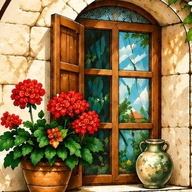
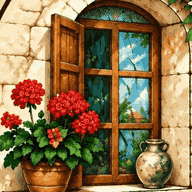
feat(site): sticky order bar, link previews and other UI quick wins
- sticky WhatsApp order bar on phones (not for sold-out products)
- Open Graph/meta link previews with images/og.jpg
- price unit never breaks onto its own line
- back link keeps category, search and scroll position
- tap targets at least 44px
- lighter icon.png and logo.jpg (original kept in
  tools/packaging/logo-original.jpg for packaging)

diff --git a/style.css b/style.css
@@ -81,6 +81,7 @@ img { display: block; max-width: 100%; }
 .chip {
   font: inherit; font-weight: 800; font-size: 1.05rem; cursor: pointer;
   display: inline-flex; align-items: center; gap: 7px;
+  min-height: 44px; /* comfortable tap target on phones */
   padding: 8px 22px; border-radius: 999px;
   color: var(--brown); background: linear-gradient(to bottom, #fdf7ea, var(--surface));
   border: 1.5px solid var(--line);
@@ -155,6 +156,11 @@ img { display: block; max-width: 100%; }
   background: var(--green); border-color: var(--green); color: #fff; outline: none;
 }
 .search-clear[hidden] { display: none; }
+/* invisible 44px tap area around the small × circle */
+.search-clear::before {
+  content: ""; position: absolute; top: -8px; right: -8px; bottom: -8px; left: -8px;
+  border-radius: 50%;
+}
 .search + .filters { margin-top: 0; padding-top: 14px; }
 
 /* "nothing found" card inside the product grid */
@@ -207,6 +213,8 @@ img { display: block; max-width: 100%; }
   padding-top: 12px; border-top: 1px dashed var(--line);
 }
 .price { font-weight: 800; color: var(--brown); white-space: nowrap; }
+/* « / ۴۰۰ گرم» never splits; if the price must wrap, the whole unit goes to the next line */
+.unit { white-space: nowrap; }
 .card .price {
   padding: 2px 14px; border-radius: 999px;
   background: var(--bg); border: 1px solid var(--line);
@@ -272,8 +280,16 @@ img { display: block; max-width: 100%; }
 .badge.inline { position: static; vertical-align: middle; margin-right: 8px; }
 
 /* Detail page */
-.back { display: table; margin: 24px auto; color: var(--green); font-weight: 600; text-decoration: none; }
-.back:hover { color: var(--green-dark); }
+/* back link: cream pill like the category buttons, 44px+ tall */
+.back {
+  display: table; margin: 24px auto; padding: 8px 24px;
+  color: var(--green-dark); font-weight: 800; text-decoration: none; line-height: 1.6;
+  background: linear-gradient(to bottom, #fdf7ea, var(--surface));
+  border: 1.5px solid var(--line); border-radius: 999px;
+  box-shadow: inset 0 1px 0 #fff, 0 1px 2px rgba(74, 44, 26, .1), 0 5px 12px rgba(74, 44, 26, .09);
+  transition: border-color .2s ease, transform .2s ease;
+}
+.back:hover { border-color: var(--green); transform: translateY(-2px); }
 .detail { display: grid; grid-template-columns: 1fr 1fr; gap: 40px; align-items: start; }
 .main-img {
   position: relative; aspect-ratio: 1; background: var(--bg-deep);
@@ -331,6 +347,10 @@ img { display: block; max-width: 100%; }
 .btn-ghost { background: transparent; color: var(--green); }
 .btn-ghost:hover { background: var(--green); color: #fff; }
 .ico { width: 1.15em; height: 1.15em; flex: none; }
+.contact .btn { min-height: 44px; }
+
+/* Sticky order bar: product pages, phones only (see the 720px block) */
+.order-bar { display: none; }
 
 /* Footer */
 .site-footer {
@@ -384,7 +404,9 @@ img { display: block; max-width: 100%; }
   .grid > .card { width: calc(50% - 7px); }
   .card-body { padding: 12px; }
   .more { display: none; }
-  .card .price { font-size: .82rem; padding: 2px 8px; white-space: normal; }
+  .card .price { font-size: .82rem; padding: 3px 10px; white-space: normal; line-height: 1.6; border-radius: 16px; }
+  /* phones: price on the first line, unit always on its own second line (same on every card) */
+  .card .price .unit { display: block; font-size: .92em; font-weight: 700; }
   .filters { gap: 6px; }
   .chip { padding: 6px 12px; font-size: .92rem; gap: 5px; }
   .chip::before { width: 7px; height: 7px; }
@@ -393,6 +415,29 @@ img { display: block; max-width: 100%; }
   .search input { height: 44px; }
   .info { padding: 22px 16px; }
   .steps li { width: 100%; max-width: 340px; flex-direction: row; justify-content: center; padding: 14px 16px; }
+
+  .order-bar {
+    display: block; position: fixed; left: 0; right: 0; bottom: 0; z-index: 50;
+    padding: 10px 16px;
+    /* iPhone home bar: plain value first, then old (iOS 11.0) and current syntax */
+    padding-bottom: 10px;
+    padding-bottom: calc(10px + constant(safe-area-inset-bottom));
+    padding-bottom: calc(10px + env(safe-area-inset-bottom));
+    background: #f8ecd5; background: rgba(248, 236, 213, .97);
+    border-top: 1.5px solid var(--line);
+    box-shadow: 0 -6px 18px rgba(74, 44, 26, .14);
+  }
+  .order-bar .btn {
+    display: flex; justify-content: center;
+    width: 100%; max-width: 480px; min-height: 50px; margin: 0 auto; padding: 10px 20px;
+    font-size: 1.05rem;
+  }
+  /* keep the footer clear of the fixed bar (bar is about 72px tall) */
+  body.has-order-bar .site-footer {
+    padding-bottom: 108px;
+    padding-bottom: calc(108px + constant(safe-area-inset-bottom));
+    padding-bottom: calc(108px + env(safe-area-inset-bottom));
+  }
 }
 
 /* ---------- Old Safari fallbacks (modern browsers skip these blocks) ---------- */

diff --git a/app.js b/app.js
@@ -92,8 +92,9 @@ function esc(s) {
 }
 
 function price(p) {
-  const unit = p.unit ? ` / ${esc(p.unit)}` : "";
-  return `${Number(p.price).toLocaleString("fa-IR")} ${esc(SHOP.currency)}${unit}`;
+  // non-breaking spaces (\u00a0) + span.unit keep «۴۰۰ گرم» and «… تومان» from wrapping apart
+  const unit = p.unit ? ` <span class="unit">/\u00a0${esc(String(p.unit).replace(/ /g, "\u00a0"))}</span>` : "";
+  return `${Number(p.price).toLocaleString("fa-IR")}\u00a0${esc(SHOP.currency)}${unit}`;
 }
 
 // small inline icons for the contact buttons (currentColor, so they follow the button)
@@ -104,8 +105,13 @@ const ICONS = {
   telegram: '<svg class="ico" viewBox="0 0 24 24" aria-hidden="true"><path fill="currentColor" d="M21.9 4.6 18.7 19.4c-.2 1-.9 1.3-1.7.8l-4.8-3.5-2.3 2.2c-.3.3-.5.5-1 .5l.3-4.9 8.9-8c.4-.3-.1-.5-.6-.2l-11 6.9-4.7-1.5c-1-.3-1-1 .2-1.5L20.6 3.4c.8-.3 1.6.2 1.3 1.2Z"/></svg>',
 };
 
+// WhatsApp order message (order box, footer and the sticky order bar)
+function orderMsg(subject) {
+  return encodeURIComponent(`سلام، میخوام «${subject}» رو سفارش بدم.`);
+}
+
 function contactLinks(subject) {
-  const msg = encodeURIComponent(`سلام، میخوام «${subject}» رو سفارش بدم.`);
+  const msg = orderMsg(subject);
   const links = [];
   if (SHOP.whatsapp) {
     links.push(`<a class="btn" href="https://wa.me/${esc(SHOP.whatsapp)}?text=${msg}" target="_blank" rel="noopener">${ICONS.whatsapp}سفارش در واتساپ</a>`);
@@ -369,6 +375,32 @@ function renderProduct() {
         ${p.soldOut || !contactLinks(p.name) ? "" : `<div class="buy"><p>برای سفارش بهمون پیام بده:</p><div class="contact">${contactLinks(p.name)}</div></div>`}
       </div>
     </div>`;
+
+  // back link: open the home page on this product's category; if the customer came from the
+  // home page, go back in history instead (restores scroll, category and search)
+  const back = document.getElementById("back");
+  if (back) {
+    if (cat) back.href = `index.html?cat=${encodeURIComponent(cat.id)}`;
+    back.addEventListener("click", (e) => {
+      try {
+        const ref = document.referrer ? new URL(document.referrer) : null;
+        if (ref && ref.origin === location.origin && /(\/|index\.html)$/.test(ref.pathname) && history.length > 1) {
+          e.preventDefault();
+          history.back();
+        }
+      } catch (err) { /* keep the normal link */ }
+    });
+  }
+
+  // sticky order bar (shown only on phones by style.css)
+  if (!p.soldOut && SHOP.whatsapp) {
+    const msg = orderMsg(p.name);
+    const bar = document.createElement("div");
+    bar.className = "order-bar";
+    bar.innerHTML = `<a class="btn" href="https://wa.me/${esc(SHOP.whatsapp)}?text=${msg}" target="_blank" rel="noopener">${ICONS.whatsapp}سفارش در واتساپ</a>`;
+    document.body.appendChild(bar);
+    document.body.classList.add("has-order-bar");
+  }
 
   box.querySelectorAll(".thumb").forEach((t) => t.addEventListener("click", () => {
     document.getElementById("main-img").src = t.dataset.src;

diff --git a/product.html b/product.html
@@ -4,6 +4,22 @@
   <meta charset="utf-8">
   <meta name="viewport" content="width=device-width, initial-scale=1">
   <title>برگین</title>
+  <meta name="description" content="قیمت و جزئیات این محصول خانگی شمالی برگین رو ببین و سفارشت رو راحت از واتساپ بده. از طبیعت تا خانه شما.">
+  <meta name="theme-color" content="#ecd1a3">
+  <meta property="og:type" content="website">
+  <meta property="og:locale" content="fa_IR">
+  <meta property="og:site_name" content="برگین">
+  <meta property="og:url" content="https://arman-niaruhi.github.io/bargin/product.html">
+  <meta property="og:title" content="محصولات خانگی شمالی | برگین">
+  <meta property="og:description" content="قیمت و جزئیات این محصول خانگی شمالی برگین رو ببین و سفارشت رو راحت از واتساپ بده. از طبیعت تا خانه شما.">
+  <meta property="og:image" content="https://arman-niaruhi.github.io/bargin/images/og.jpg">
+  <meta property="og:image:width" content="1200">
+  <meta property="og:image:height" content="630">
+  <meta property="og:image:alt" content="برگین — از طبیعت تا خانه شما">
+  <meta name="twitter:card" content="summary_large_image">
+  <meta name="twitter:title" content="محصولات خانگی شمالی | برگین">
+  <meta name="twitter:description" content="قیمت و جزئیات این محصول خانگی شمالی برگین رو ببین و سفارشت رو راحت از واتساپ بده. از طبیعت تا خانه شما.">
+  <meta name="twitter:image" content="https://arman-niaruhi.github.io/bargin/images/og.jpg">
   <link rel="icon" href="images/icon.png">
   <link rel="preconnect" href="https://fonts.googleapis.com">
   <link rel="stylesheet" href="https://fonts.googleapis.com/css2?family=Vazirmatn:wght@400;500;700;800&display=swap">
@@ -11,7 +27,7 @@
 </head>
 <body>
   <main class="container">
-    <a class="back" href="index.html">&rarr; همه محصولات</a>
+    <a class="back" id="back" href="index.html">&rarr; همه محصولات</a>
     <div id="product-detail"></div>
   </main>
 

diff --git a/index.html b/index.html
@@ -4,6 +4,22 @@
   <meta charset="utf-8">
   <meta name="viewport" content="width=device-width, initial-scale=1">
   <title>برگین</title>
+  <meta name="description" content="محصولات خانگی شمالی برگین: سبزیهای تازه و خشک، ربها و دلالها. ببین، انتخاب کن و از واتساپ سفارش بده.">
+  <meta name="theme-color" content="#ecd1a3">
+  <meta property="og:type" content="website">
+  <meta property="og:locale" content="fa_IR">
+  <meta property="og:site_name" content="برگین">
+  <meta property="og:url" content="https://arman-niaruhi.github.io/bargin/">
+  <meta property="og:title" content="برگین | از طبیعت تا خانه شما">
+  <meta property="og:description" content="محصولات خانگی شمالی برگین: سبزیهای تازه و خشک، ربها و دلالها. ببین، انتخاب کن و از واتساپ سفارش بده.">
+  <meta property="og:image" content="https://arman-niaruhi.github.io/bargin/images/og.jpg">
+  <meta property="og:image:width" content="1200">
+  <meta property="og:image:height" content="630">
+  <meta property="og:image:alt" content="برگین — از طبیعت تا خانه شما">
+  <meta name="twitter:card" content="summary_large_image">
+  <meta name="twitter:title" content="برگین | از طبیعت تا خانه شما">
+  <meta name="twitter:description" content="محصولات خانگی شمالی برگین: سبزیهای تازه و خشک، ربها و دلالها. ببین، انتخاب کن و از واتساپ سفارش بده.">
+  <meta name="twitter:image" content="https://arman-niaruhi.github.io/bargin/images/og.jpg">
   <link rel="icon" href="images/icon.png">
   <link rel="preconnect" href="https://fonts.googleapis.com">
   <link rel="stylesheet" href="https://fonts.googleapis.com/css2?family=Vazirmatn:wght@400;500;700;800&display=swap">

diff --git a/tools/packaging/make_og.py b/tools/packaging/make_og.py
@@ -1,0 +1,36 @@
+"""Build images/og.jpg (1200x630 link preview): oval Bargin logo on the site's parchment."""
+import os, sys
+import numpy as np
+from PIL import Image, ImageFilter
+# run from anywhere: python3 tools/packaging/make_og.py
+root = os.path.abspath(os.path.join(os.path.dirname(os.path.abspath(__file__)), "..", ".."))
+W, H = 1200, 630
+y, x = np.mgrid[0:H, 0:W].astype(np.float32)
+bg = np.zeros((H, W, 3), np.float32) + np.array([0xec, 0xd1, 0xa3], np.float32)
+# soft light from the top (like the site's first radial gradient)
+d1 = np.sqrt(((x - W/2) / (1.2*W/2))**2 + (y / (.7*H))**2)
+a1 = np.clip(1 - d1/.6, 0, 1) * .55
+bg = bg*(1-a1[...,None]) + np.array([255, 246, 225])*a1[...,None]
+# warm vignette from the bottom and edges
+d2 = np.sqrt(((x - W/2) / (1.4*W/2))**2 + ((y - H) / H)**2)
+a2 = np.clip(1 - d2/.7, 0, 1) * .18
+bg = bg*(1-a2[...,None]) + np.array([181, 138, 82])*a2[...,None]
+edge = np.sqrt(((x - W/2)/(W/2))**2 + ((y - H/2)/(H/2))**2)
+a3 = np.clip((edge - .75)/.7, 0, 1) * .22
+bg = bg*(1-a3[...,None]) + np.array([150, 105, 60])*a3[...,None]
+img = Image.fromarray(np.clip(bg, 0, 255).astype(np.uint8))
+logo = Image.open(os.path.join(root, "tools/packaging/logo-oval.png")).convert("RGBA")
+lh = 590; lw = round(logo.width * lh / logo.height)
+logo = logo.resize((lw, lh), Image.LANCZOS)
+lx, ly = (W - lw)//2, (H - lh)//2
+# soft shadow under the oval
+sh = Image.new("RGBA", (W, H), (0, 0, 0, 0))
+alpha = logo.split()[3].point(lambda v: int(v*.28))
+shadow = Image.new("RGBA", logo.size, (74, 44, 26, 255)); shadow.putalpha(alpha)
+sh.paste(shadow, (lx, ly + 8), shadow)
+sh = sh.filter(ImageFilter.GaussianBlur(14))
+img = Image.alpha_composite(img.convert("RGBA"), sh)
+img.alpha_composite(logo, (lx, ly))
+out = os.path.join(root, "images/og.jpg")
+img.convert("RGB").save(out, quality=82, optimize=True, progressive=True)
+print(out, os.path.getsize(out))

diff --git a/tools/packaging/make_logo.py b/tools/packaging/make_logo.py
@@ -1,4 +1,4 @@
-"""Cut the full Bargin logo (images/logo.jpg) out along its oval frame -> logo-oval.png.
+"""Cut the full Bargin logo (logo-original.jpg, the full-size copy of images/logo.jpg) out along its oval frame -> logo-oval.png.
 
 The logo's frame is an oval on top with the slogan scrolls below it, so the mask is the
 union of two ellipses (top + bottom), with a soft edge so it blends into the label.
@@ -8,7 +8,8 @@ import os
 from PIL import Image, ImageDraw, ImageFilter
 
 HERE = os.path.dirname(os.path.abspath(__file__))
-src = Image.open(os.path.join(HERE, "..", "..", "images", "logo.jpg")).convert("RGB")
+# full-resolution original (the site's images/logo.jpg is a smaller web copy)
+src = Image.open(os.path.join(HERE, "logo-original.jpg")).convert("RGB")
 W, H = src.size  # 767 x 1280
 
 S = 4  # draw the mask big, then shrink, for a smooth edge
